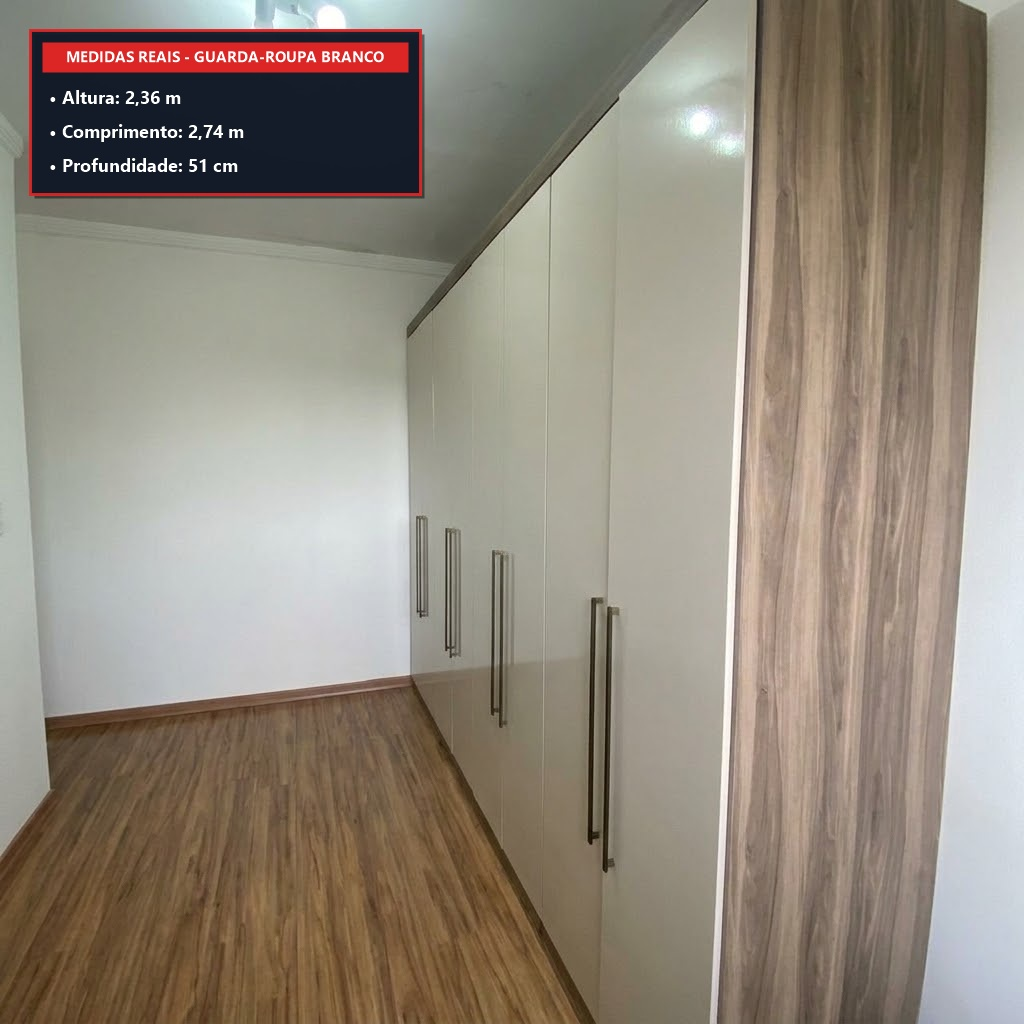
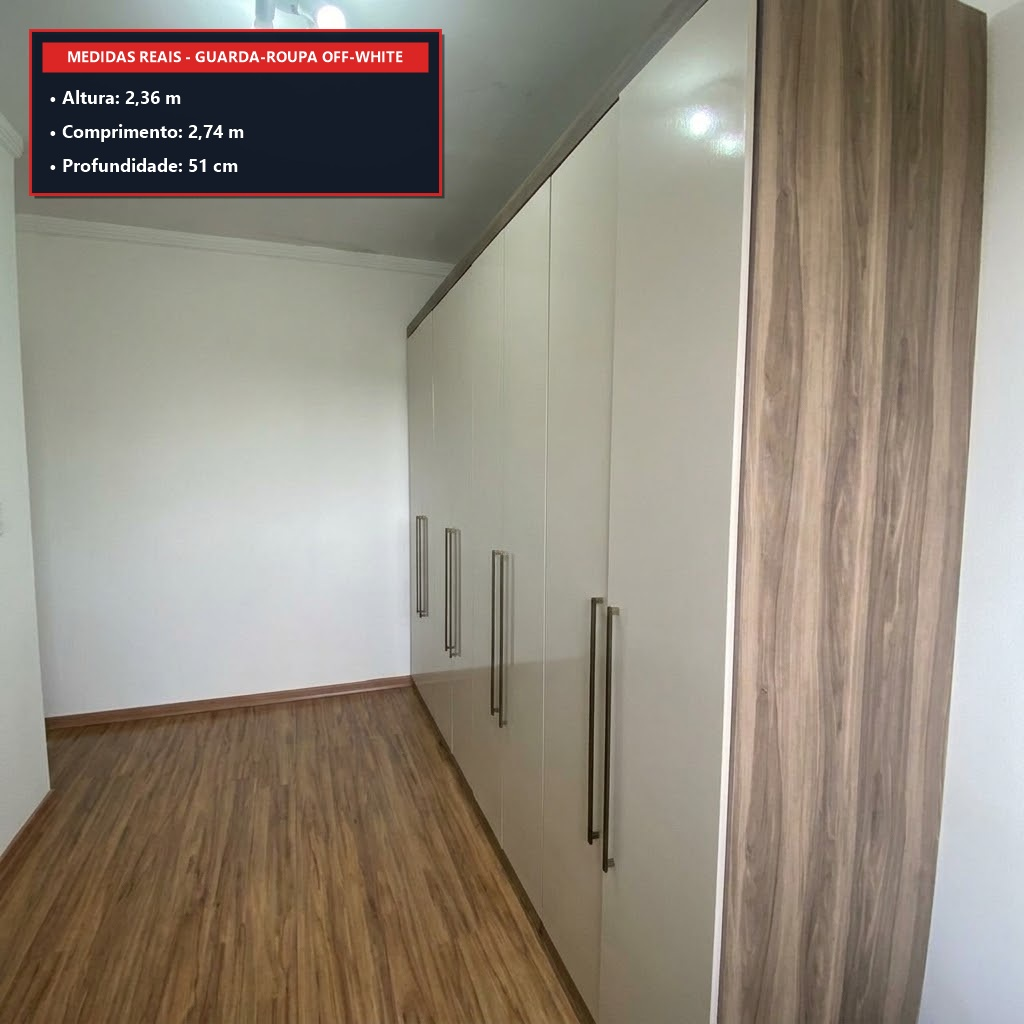
fix: atualizar guarda-roupa para Off-White nas fotos e paginas

Changed region(s): [[0.0625, 0.0312, 0.4375, 0.2188]]

diff --git a/armario-branco.html b/armario-branco.html
@@ -3,13 +3,13 @@
 <head>
   <meta charset="UTF-8">
   <meta name="viewport" content="width=device-width, initial-scale=1.0, maximum-scale=1.0, user-scalable=no">
-  <title>Guarda-Roupa Branco Usado 6 Portas - R$ 850 | Bota-Fora Jundiaí</title>
-  <meta name="description" content="Guarda-Roupa Branco / Off-White 6 portas por apenas R$ 850. Retirada na Av. Reserva do Japy, 360 - Jundiaí. Clique no link para comprar!">
+  <title>Guarda-Roupa Off-White Usado 6 Portas - R$ 850 | Bota-Fora Jundiaí</title>
+  <meta name="description" content="Guarda-Roupa Off-White 6 portas por apenas R$ 850. Retirada na Av. Reserva do Japy, 360 - Jundiaí. Clique no link para comprar!">
   
   <!-- Open Graph para WhatsApp / Redes Sociais -->
   <meta property="og:type" content="website">
-  <meta property="og:title" content="Guarda-Roupa Branco Usado 6 Portas - R$ 850,00 | Bota-Fora Jundiaí">
-  <meta property="og:description" content="Excelente estado! 6 portas, moldura amadeirada. Retirada na Av. Reserva do Japy, 360. Clique para fotos e comprar no WhatsApp!">
+  <meta property="og:title" content="Guarda-Roupa Off-White Usado 6 Portas - R$ 850,00 | Bota-Fora Jundiaí">
+  <meta property="og:description" content="Excelente estado! 6 portas, cor off-white nobre com moldura amadeirada. Retirada na Av. Reserva do Japy, 360. Clique para fotos e comprar no WhatsApp!">
   <meta property="og:image" content="https://raw.githubusercontent.com/felipemartins008-create/moveis/main/e6516669-b535-4e09-933e-1bf89dc39f37.jpg">
   <meta property="og:image:secure_url" content="https://raw.githubusercontent.com/felipemartins008-create/moveis/main/e6516669-b535-4e09-933e-1bf89dc39f37.jpg">
   <meta property="og:image:type" content="image/jpeg">
@@ -56,7 +56,7 @@
   <div class="container">
     <div class="card">
       <div class="card-photo" onclick="comprar()">
-        <img id="mainImg" src="e6516669-b535-4e09-933e-1bf89dc39f37.jpg" alt="Guarda-Roupa Branco">
+        <img id="mainImg" src="e6516669-b535-4e09-933e-1bf89dc39f37.jpg" alt="Guarda-Roupa Off-White">
         <div class="card-price-badge">R$ 850</div>
         <div class="tap-hint">👆 Toque na foto para comprar</div>
       </div>
@@ -72,19 +72,19 @@
       </div>
 
       <div class="card-content">
-        <h1 class="card-name">Guarda-Roupa Branco Usado (6 Portas)</h1>
+        <h1 class="card-name">Guarda-Roupa Off-White Usado (6 Portas)</h1>
         
         <div class="combo-callout">
-          ⚡ <strong>OFERTA COMBO:</strong> Leve o Branco + o Marrom por apenas <strong>R$ 1.000</strong> os dois!
+          ⚡ <strong>OFERTA COMBO:</strong> Leve o Off-White + o Marrom por apenas <strong>R$ 1.000</strong> os dois!
         </div>
 
         <div class="card-measure">
           📏 <strong>Medidas reais:</strong> Altura 2,36m • Comprimento 2,74m • Profundidade 51cm<br>
-          🚪 <strong>Detalhes:</strong> 6 portas altas com puxadores em perfil, moldura amadeirada nobre.<br>
+          🚪 <strong>Detalhes:</strong> 6 portas altas com puxadores em perfil, cor off-white nobre com moldura amadeirada.<br>
           📍 <strong>Retirada:</strong> Av. Reserva do Japy, 360 - Jundiaí/SP (PIX ou Dinheiro)
         </div>
 
-        <a href="https://api.whatsapp.com/send?phone=5511961343759&text=Ol%C3%A1!%20Vi%20o%20link%20do%20Guarda-Roupa%20Branco%20(R$%20850)%20na%20Av.%20Reserva%20do%20Japy%20360.%20Quero%20comprar!" target="_blank" class="btn-wpp">
+        <a href="https://api.whatsapp.com/send?phone=5511961343759&text=Ol%C3%A1!%20Vi%20o%20link%20do%20Guarda-Roupa%20Off-White%20(R$%20850)%20na%20Av.%20Reserva%20do%20Japy%20360.%20Quero%20comprar!" target="_blank" class="btn-wpp">
           <svg class="wpp-icon" viewBox="0 0 24 24"><path d="M12.031 6.172c-3.181 0-5.767 2.586-5.768 5.766-.001 1.298.38 2.27 1.019 3.287l-.582 2.128 2.182-.573c.978.58 1.911.928 3.145.929 3.178 0 5.767-2.587 5.768-5.766.001-3.187-2.575-5.77-5.764-5.771zm3.392 8.244c-.144.405-.837.774-1.17.824-.299.045-.677.063-1.092-.069-.252-.08-.575-.187-.988-.365-1.739-.751-2.874-2.502-2.961-2.617-.087-.116-.708-.94-.708-1.793s.448-1.273.607-1.446c.159-.173.346-.217.462-.217l.332.007c.106.005.249-.04.39.299.144.347.491 1.2.534 1.287.043.087.072.188.014.303-.058.116-.087.188-.173.289l-.26.303c-.087.087-.177.182-.076.356.101.174.449.741.964 1.201.662.591 1.221.774 1.394.861.173.086.275.072.376-.044.101-.116.433-.506.549-.68.116-.173.231-.145.39-.087s1.011.477 1.184.564.289.13.332.202c.043.073.043.419-.101.825zM12 2C6.477 2 2 6.477 2 12c0 1.821.487 3.53 1.338 5L2.05 21.95l5.097-1.335C8.584 21.487 10.237 22 12 22c5.523 0 10-4.477 10-10S17.523 2 12 2z"/></svg>
           COMPRAR NO WHATSAPP (R$ 850)
         </a>
@@ -102,10 +102,10 @@
 
   <div class="bottom-bar">
     <div class="info">
-      <span>Guarda-Roupa Branco</span>
+      <span>Guarda-Roupa Off-White</span>
       <strong>R$ 850,00</strong>
     </div>
-    <a href="https://api.whatsapp.com/send?phone=5511961343759&text=Ol%C3%A1!%20Vi%20o%20link%20do%20Guarda-Roupa%20Branco%20(R$%20850)%20na%20Av.%20Reserva%20do%20Japy%20360.%20Quero%20comprar!" target="_blank" class="btn-wpp">
+    <a href="https://api.whatsapp.com/send?phone=5511961343759&text=Ol%C3%A1!%20Vi%20o%20link%20do%20Guarda-Roupa%20Off-White%20(R$%20850)%20na%20Av.%20Reserva%20do%20Japy%20360.%20Quero%20comprar!" target="_blank" class="btn-wpp">
       Comprar no Whats
     </a>
   </div>
@@ -117,7 +117,7 @@
       el.classList.add('active');
     }
     function comprar() {
-      window.open("https://api.whatsapp.com/send?phone=5511961343759&text=Ol%C3%A1!%20Vi%20o%20link%20do%20Guarda-Roupa%20Branco%20(R$%20850)%20na%20Av.%20Reserva%20do%20Japy%20360.%20Quero%20comprar!", "_blank");
+      window.open("https://api.whatsapp.com/send?phone=5511961343759&text=Ol%C3%A1!%20Vi%20o%20link%20do%20Guarda-Roupa%20Off-White%20(R$%20850)%20na%20Av.%20Reserva%20do%20Japy%20360.%20Quero%20comprar!", "_blank");
     }
   </script>
 </body>

diff --git a/index.html b/index.html
@@ -395,11 +395,11 @@
     <div class="combo-box">
       <div class="combo-text">
         <strong>⚡ COMBO 2 GUARDA-ROUPAS</strong>
-        <span>Leva o Branco + Marrom juntos</span>
+        <span>Leva o Off-White + Marrom juntos</span>
       </div>
       <div style="text-align:right;">
         <div class="combo-price">R$ 1.000</div>
-        <a href="https://api.whatsapp.com/send?phone=5511961343759&text=Ol%C3%A1!%20Quero%20o%20COMBO%20dos%202%20Guarda-Roupas%20(Branco%20+%20Marrom)%20por%20R$%201.000%20na%20Av.%20Reserva%20do%20Japy%20360." target="_blank" class="btn-wpp btn-wpp-sm" style="margin-top:4px;">
+        <a href="https://api.whatsapp.com/send?phone=5511961343759&text=Ol%C3%A1!%20Quero%20o%20COMBO%20dos%202%20Guarda-Roupas%20(Off-White%20+%20Marrom)%20por%20R$%201.000%20na%20Av.%20Reserva%20do%20Japy%20360." target="_blank" class="btn-wpp btn-wpp-sm" style="margin-top:4px;">
           Garantir os 2
         </a>
       </div>
@@ -408,14 +408,14 @@
     <!-- LISTA DIRETA DOS MÓVEIS (FEED RÁPIDO) -->
     <div class="feed">
 
-      <!-- ITEM 1: ARMÁRIO BRANCO -->
+      <!-- ITEM 1: ARMÁRIO OFF-WHITE -->
       <div class="card" id="armario-branco">
-        <div class="card-photo" onclick="window.open('https://api.whatsapp.com/send?phone=5511961343759&text=Ol%C3%A1!%20Tenho%20interesse%20no%20Guarda-Roupa%20Branco%20(R$%20850)%20na%20Av.%20Reserva%20do%20Japy%20360.%20Ainda%20est%C3%A1%20dispon%C3%ADvel?', '_blank')">
-          <img id="imgArmarioBranco" src="e6516669-b535-4e09-933e-1bf89dc39f37.jpg" alt="Guarda-Roupa Branco" loading="eager">
+        <div class="card-photo" onclick="window.open('https://api.whatsapp.com/send?phone=5511961343759&text=Ol%C3%A1!%20Tenho%20interesse%20no%20Guarda-Roupa%20Off-White%20(R$%20850)%20na%20Av.%20Reserva%20do%20Japy%20360.%20Ainda%20est%C3%A1%20dispon%C3%ADvel?', '_blank')">
+          <img id="imgArmarioBranco" src="e6516669-b535-4e09-933e-1bf89dc39f37.jpg" alt="Guarda-Roupa Off-White" loading="eager">
           <div class="card-price-badge">R$ 850</div>
           <div class="card-combo-tag">Ou R$ 1.000 levando os dois armários!</div>
         </div>
-        <!-- Toque para ver cada foto do armário branco -->
+        <!-- Toque para ver cada foto do armário -->
         <div class="thumbs-row">
           <div class="thumb-pic active" onclick="trocarFoto('imgArmarioBranco', 'e6516669-b535-4e09-933e-1bf89dc39f37.jpg', this)" title="Vista de Frente">
             <img src="e6516669-b535-4e09-933e-1bf89dc39f37.jpg" alt="Frente">
@@ -426,13 +426,13 @@
         </div>
         <div class="card-content">
           <div class="card-header-line">
-            <h2 class="card-name">Guarda-Roupa Branco / Off-White</h2>
+            <h2 class="card-name">Guarda-Roupa Off-White</h2>
             <div class="card-price-inline">R$ 850</div>
           </div>
           <div class="card-measure">
             📏 <strong>Medidas reais:</strong> Altura 2,36m • Comprimento 2,74m • Profundidade 51cm
           </div>
-          <a href="https://api.whatsapp.com/send?phone=5511961343759&text=Ol%C3%A1!%20Tenho%20interesse%20no%20Guarda-Roupa%20Branco%20(R$%20850)%20na%20Av.%20Reserva%20do%20Japy%20360.%20Ainda%20est%C3%A1%20dispon%C3%ADvel?" target="_blank" class="btn-wpp">
+          <a href="https://api.whatsapp.com/send?phone=5511961343759&text=Ol%C3%A1!%20Tenho%20interesse%20no%20Guarda-Roupa%20Off-White%20(R$%20850)%20na%20Av.%20Reserva%20do%20Japy%20360.%20Ainda%20est%C3%A1%20dispon%C3%ADvel?" target="_blank" class="btn-wpp">
             <svg class="wpp-icon" viewBox="0 0 24 24"><path d="M12.031 6.172c-3.181 0-5.767 2.586-5.768 5.766-.001 1.298.38 2.27 1.019 3.287l-.582 2.128 2.182-.573c.978.58 1.911.928 3.145.929 3.178 0 5.767-2.587 5.768-5.766.001-3.187-2.575-5.77-5.764-5.771zm3.392 8.244c-.144.405-.837.774-1.17.824-.299.045-.677.063-1.092-.069-.252-.08-.575-.187-.988-.365-1.739-.751-2.874-2.502-2.961-2.617-.087-.116-.708-.94-.708-1.793s.448-1.273.607-1.446c.159-.173.346-.217.462-.217l.332.007c.106.005.249-.04.39.299.144.347.491 1.2.534 1.287.043.087.072.188.014.303-.058.116-.087.188-.173.289l-.26.303c-.087.087-.177.182-.076.356.101.174.449.741.964 1.201.662.591 1.221.774 1.394.861.173.086.275.072.376-.044.101-.116.433-.506.549-.68.116-.173.231-.145.39-.087s1.011.477 1.184.564.289.13.332.202c.043.073.043.419-.101.825zM12 2C6.477 2 2 6.477 2 12c0 1.821.487 3.53 1.338 5L2.05 21.95l5.097-1.335C8.584 21.487 10.237 22 12 22c5.523 0 10-4.477 10-10S17.523 2 12 2z"/></svg>
             Quero Este no WhatsApp (R$ 850)
           </a>

diff --git a/armario-marrom.html b/armario-marrom.html
@@ -61,7 +61,7 @@
         <h1 class="card-name">Guarda-Roupa Marrom Usado (6 Portas)</h1>
         
         <div class="combo-callout">
-          ⚡ <strong>OFERTA COMBO:</strong> Leve o Marrom + o Branco por apenas <strong>R$ 1.000</strong> os dois!
+          ⚡ <strong>OFERTA COMBO:</strong> Leve o Marrom + o Off-White por apenas <strong>R$ 1.000</strong> os dois!
         </div>
 
         <div class="card-measure">
